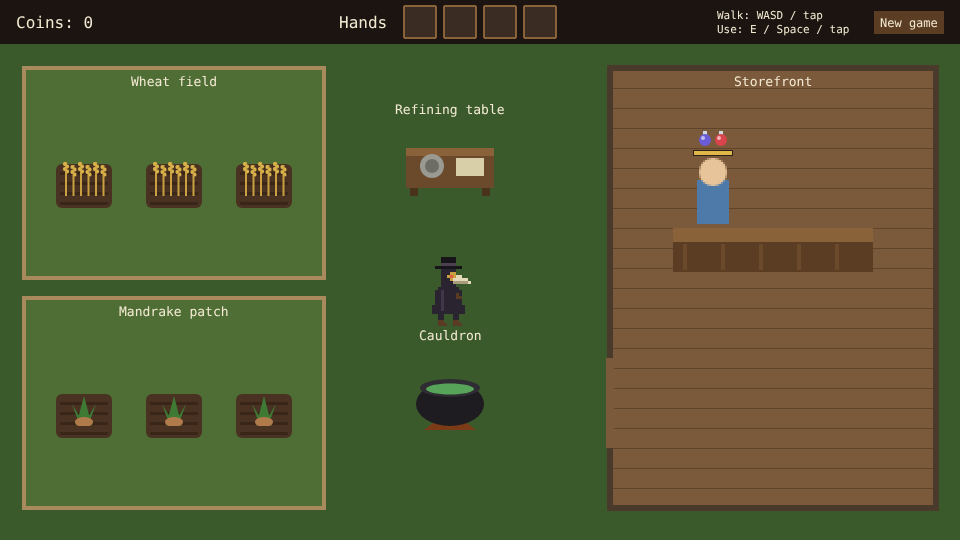
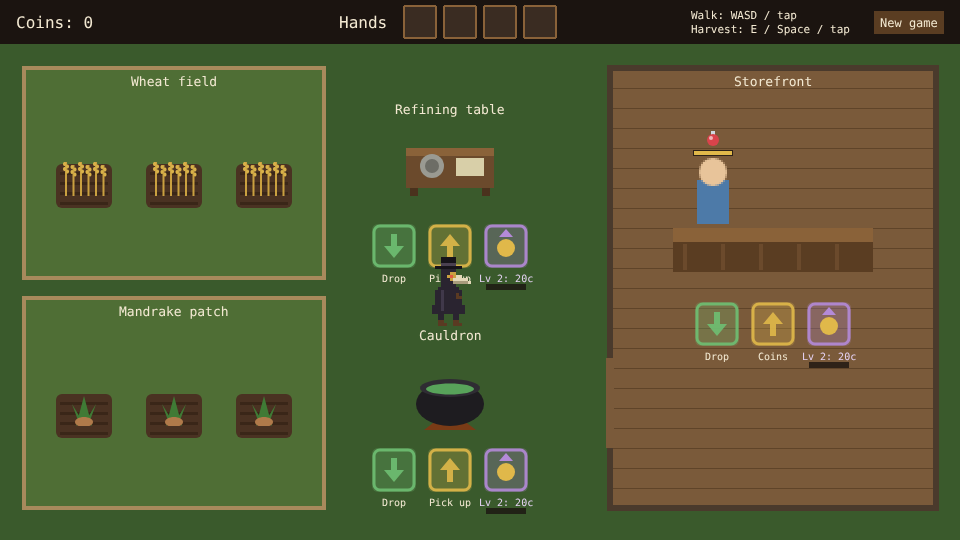
Document the floor markers and add screenshots
Explain the drop-off, pick-up and upgrade markers in the README and add
screenshots of the markers at each station for the pull request.

Created with Claude Opus 5.5 (low)

diff --git a/README.md b/README.md
@@ -12,16 +12,20 @@ brew potions in the cauldron and sell them to customers at the storefront.
 | Control | Action |
 | --- | --- |
 | WASD / arrow keys, or tap | Walk |
-| E / Space, or tap a station | Use the plot or station you are standing at |
+| E / Space, or tap a plot | Harvest the plot you are standing at |
+| Stand on a floor marker | Green: drop off items. Gold: pick up products or coins. Purple: pay coins to upgrade |
 
 1. **Gardens**: each garden grows one kind of plant. Harvest ripe wheat in the wheat field and
    mandrake in the mandrake patch. Plots regrow on their own.
 2. **Refining table**: drop off plants; wheat becomes wheat flour, mandrake becomes mandrake seeds.
-   Come back to collect the finished goods.
+   Finished goods wait on the pick-up marker.
 3. **Cauldron**: drop in refined goods. Two wheat flour brew a Healing Draught, wheat flour and
    mandrake seeds brew a Sleeping Tonic.
-4. **Storefront**: customers show the potions they want and how long they will wait. Serve them at
-   the counter for coins.
+4. **Storefront**: customers show the potions they want and how long they will wait. Drop potions
+   on the counter; customers take what they ordered and leave coins on the pick-up marker.
+
+Every station has an upgrade marker. Upgrades cost 20, 40 and 80 coins: the refining table and
+cauldron work faster, and customers at an upgraded counter tip more and wait longer.
 
 You can carry four items at a time; they stack up on the doctor's back. Progress is saved in the browser automatically; "New game"
 in the top bar starts over.
